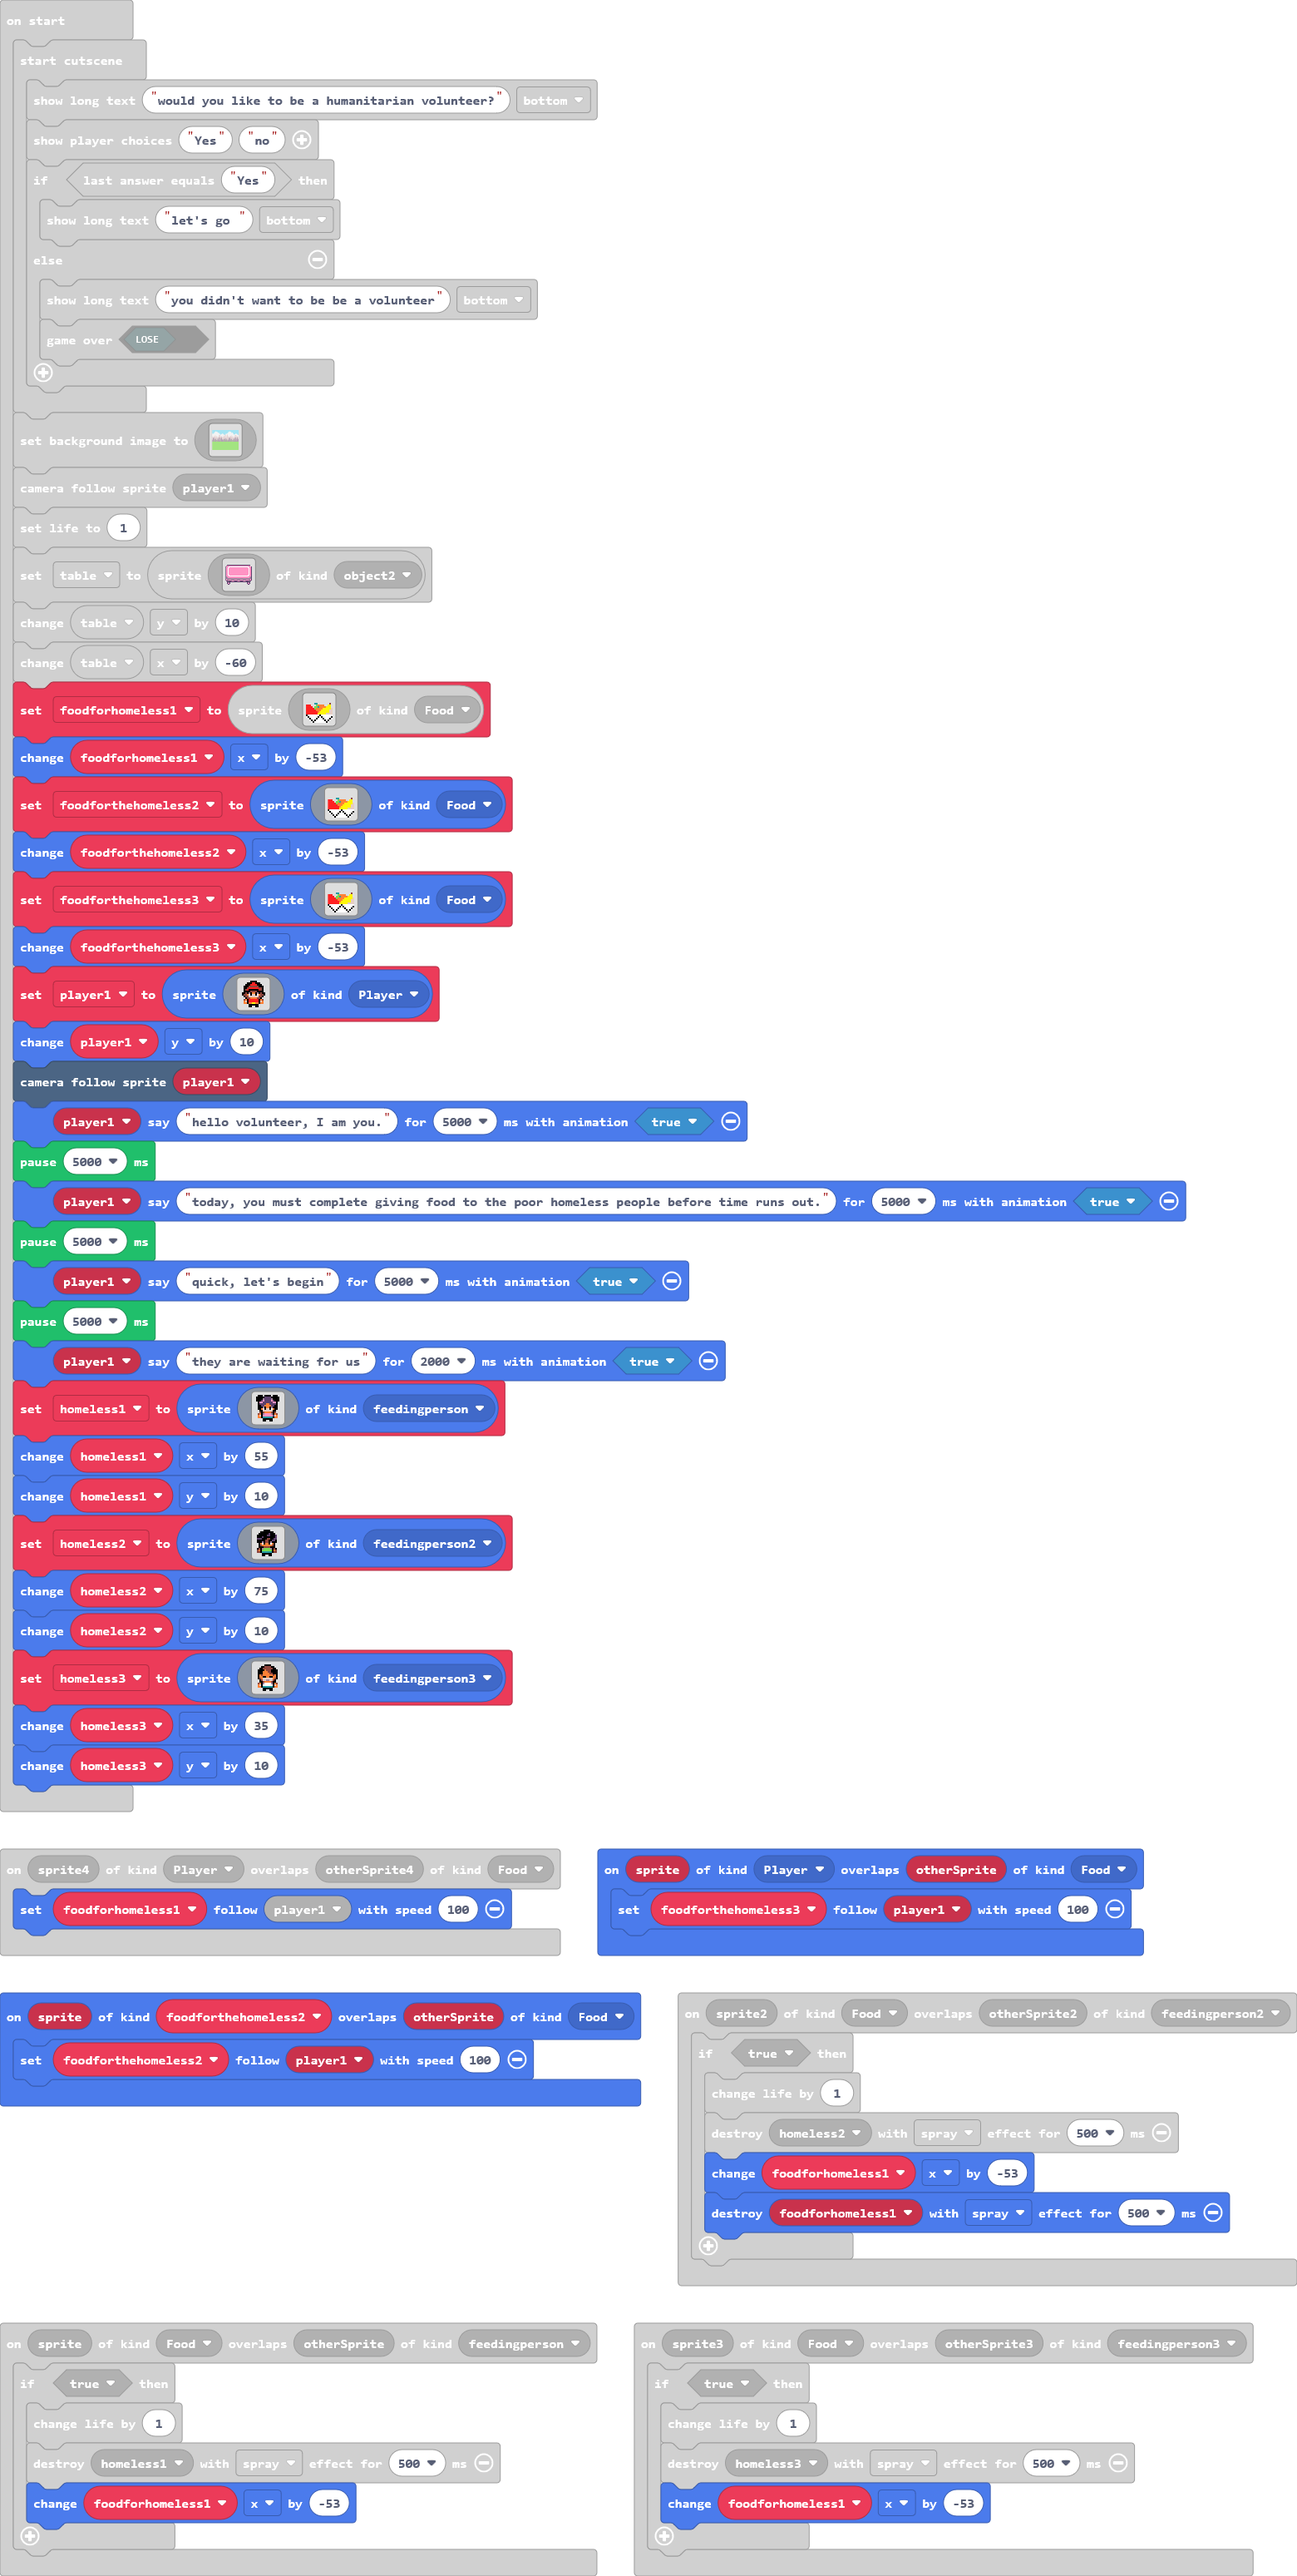
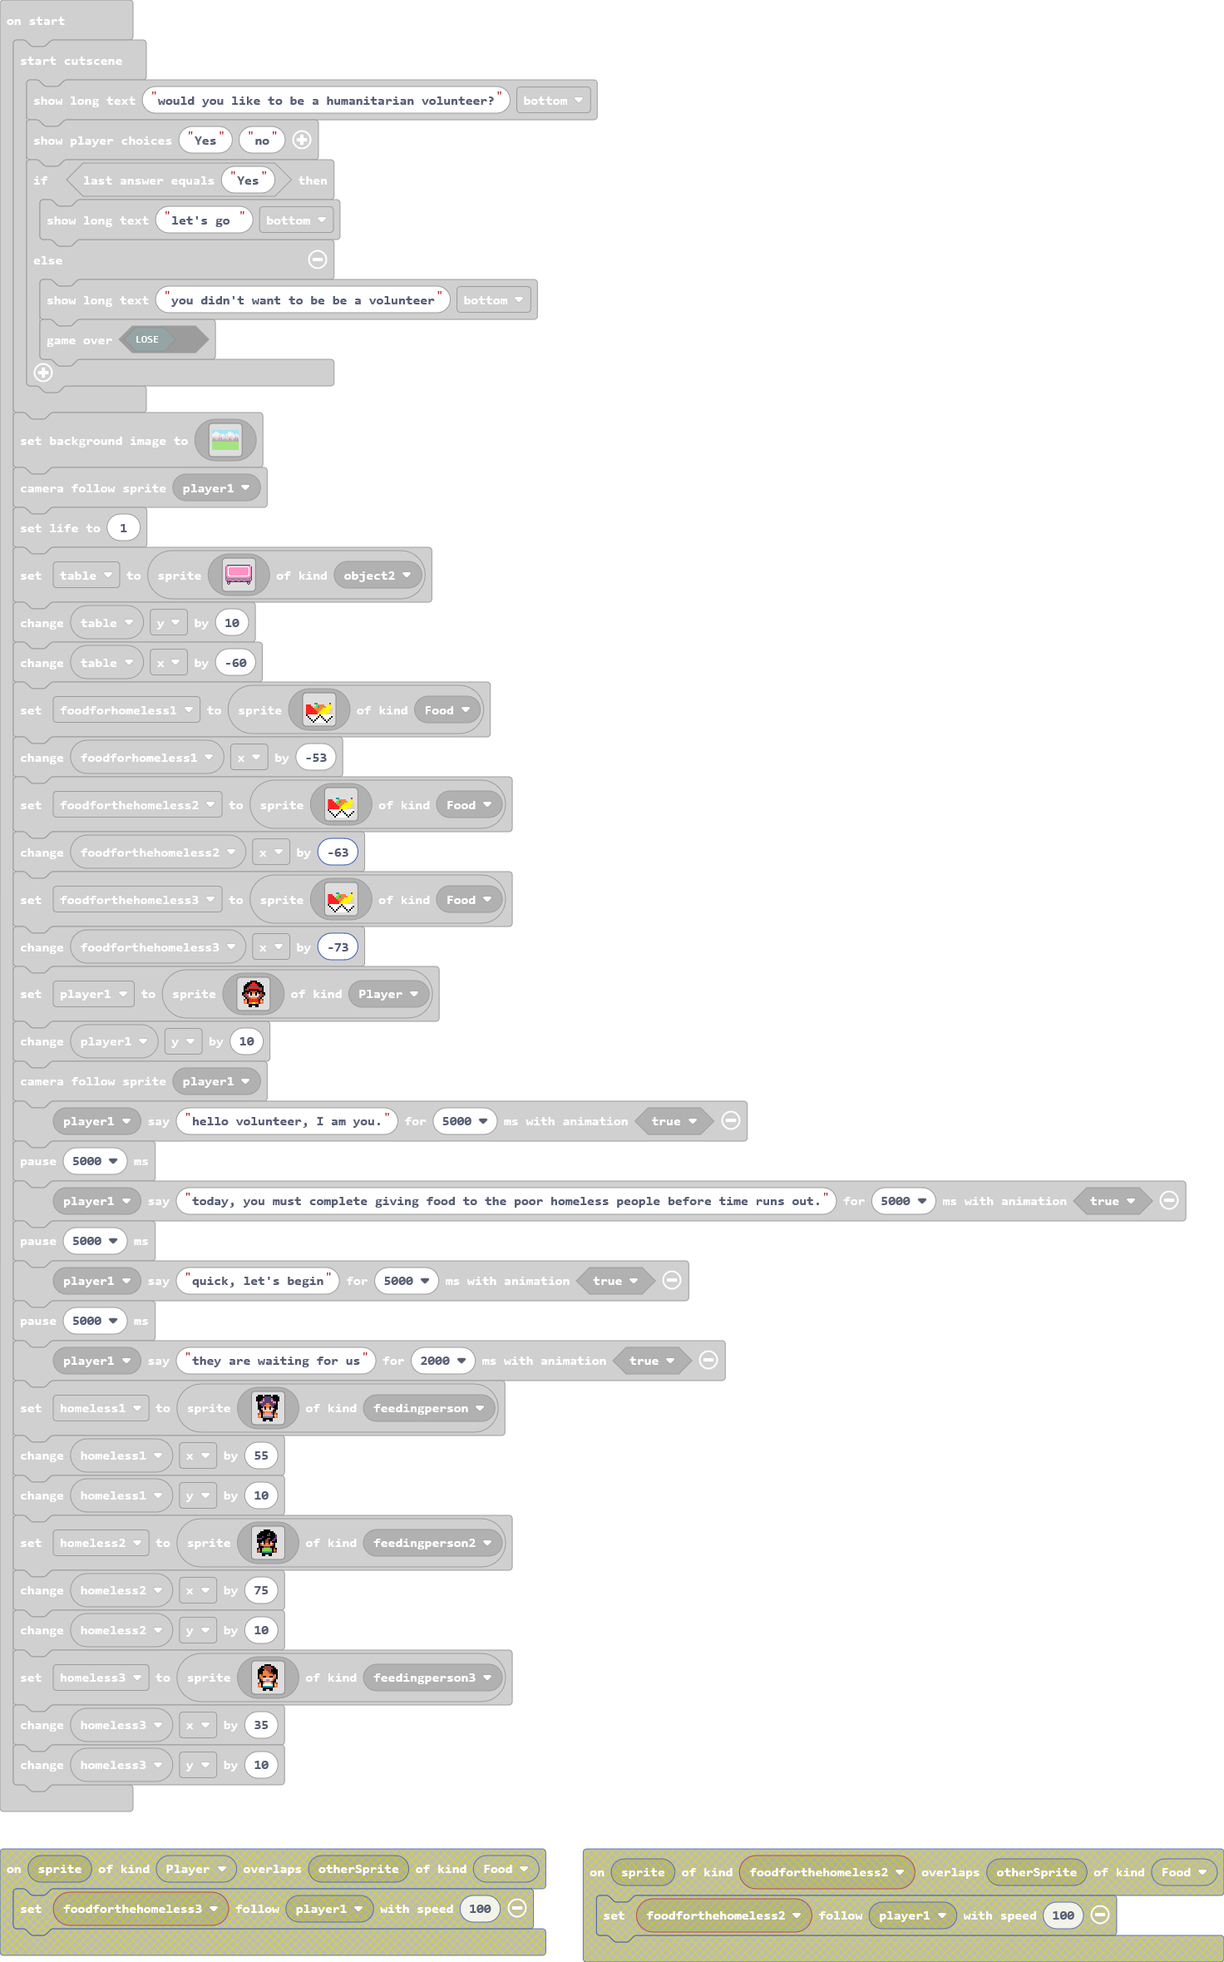
Update pxt.json, main.blocks, main.ts

diff --git a/main.ts b/main.ts
@@ -45,17 +45,9 @@ sprites.onOverlap(SpriteKind.Food, SpriteKind.feedingperson2, function (sprite2,
         sprites.destroy(foodforhomeless1, effects.spray, 500)
     }
 })
-sprites.onOverlap(foodforthehomeless2, SpriteKind.Food, function (sprite, otherSprite) {
-    foodforthehomeless2.follow(player1, 100)
-})
-sprites.onOverlap(SpriteKind.Player, SpriteKind.Food, function (sprite, otherSprite) {
-    foodforthehomeless3.follow(player1, 100)
-})
 let homeless3: Sprite = null
 let homeless2: Sprite = null
 let homeless1: Sprite = null
-let foodforthehomeless3: Sprite = null
-let foodforthehomeless2 = 0
 let foodforhomeless1: Sprite = null
 let player1: Sprite = null
 story.startCutscene(function () {
@@ -76,10 +68,10 @@ table.y += 10
 table.x += -60
 foodforhomeless1 = sprites.create(assets.image`food`, SpriteKind.Food)
 foodforhomeless1.x += -53
-foodforthehomeless2 = sprites.create(assets.image`food`, SpriteKind.Food)
-foodforthehomeless2.x += -53
-foodforthehomeless3 = sprites.create(assets.image`food`, SpriteKind.Food)
-foodforthehomeless3.x += -53
+let foodforthehomeless2 = sprites.create(assets.image`food`, SpriteKind.Food)
+foodforthehomeless2.x += -63
+let foodforthehomeless3 = sprites.create(assets.image`food`, SpriteKind.Food)
+foodforthehomeless3.x += -73
 player1 = sprites.create(assets.image`player`, SpriteKind.Player)
 player1.y += 10
 scene.cameraFollowSprite(player1)
